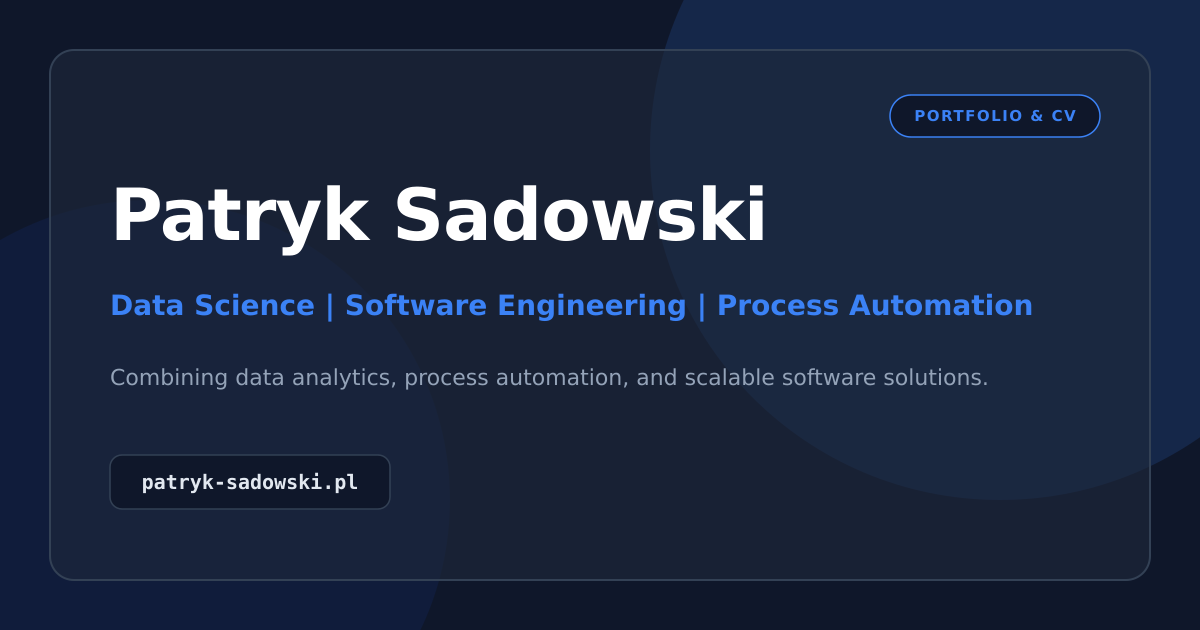
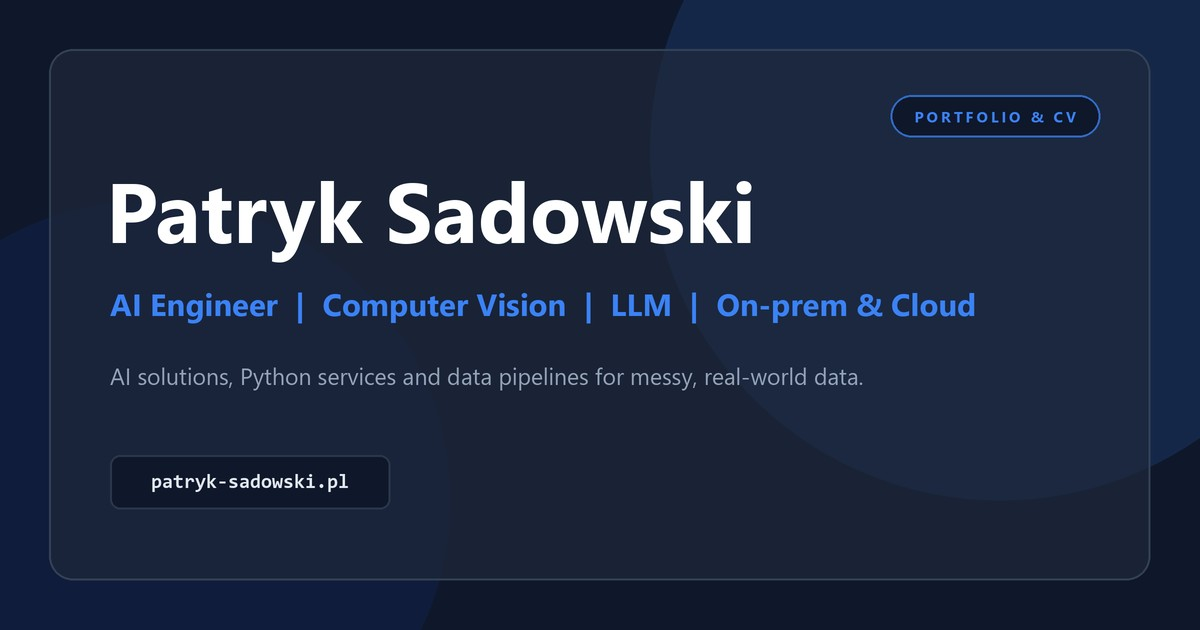
feat: new og-image and hero description

diff --git a/pl/index.html b/pl/index.html
@@ -106,7 +106,7 @@
 <p class="status"><span class="dot" aria-hidden="true"></span>Otwarty na role AI / Backend / R&amp;D · zdalnie lub hybrydowo</p>
 <h1 id="hero-title">Patryk Sadowski</h1>
 <p class="hero__role">AI Engineer</p>
-<p class="hero__lead">Projektuję usługi w&nbsp;Pythonie i&nbsp;FastAPI, potoki danych oraz warstwy storage dla dużych, nieidealnych, prawdziwych danych — od przepływów supply chain z&nbsp;SAP w&nbsp;Signify po wolumetryczne skany CT tworzone na potrzeby Narodowego Centrum Badań Jądrowych.</p>
+<p class="hero__lead">Projektuję rozwiązania AI oraz stojące za nimi usługi w&nbsp;Pythonie i&nbsp;FastAPI, potoki danych i&nbsp;warstwy storage — dla dużych, nieidealnych, prawdziwych danych, od przepływów supply chain z&nbsp;SAP w&nbsp;Signify po wolumetryczne skany CT tworzone na potrzeby Narodowego Centrum Badań Jądrowych.</p>
 <div class="hero__actions">
 <a class="btn btn--primary" href="#ct-viewer">Mój projekt flagowy<svg class="icon" aria-hidden="true"><use href="#i-arrow"/></svg></a>
 <a class="btn btn--ghost" href="../Patryk_Sadowski_CV.pdf" target="_blank" rel="noopener"><svg class="icon" aria-hidden="true"><use href="#i-download"/></svg>Pobierz CV<span class="btn__meta">PDF</span></a>

diff --git a/index.html b/index.html
@@ -106,7 +106,7 @@
 <p class="status"><span class="dot" aria-hidden="true"></span>Open to AI / Backend / R&amp;D roles · remote or hybrid</p>
 <h1 id="hero-title">Patryk Sadowski</h1>
 <p class="hero__role">AI Engineer</p>
-<p class="hero__lead">I design Python and FastAPI services, data pipelines and storage layers for large, messy, real-world data — from SAP supply-chain flows at Signify to volumetric CT scans built for the National Centre for Nuclear Research.</p>
+<p class="hero__lead">I design AI solutions and the Python/FastAPI services, data pipelines and storage behind them — for large, messy, real-world data, from SAP supply-chain flows at Signify to volumetric CT scans built for the National Centre for Nuclear Research.</p>
 <div class="hero__actions">
 <a class="btn btn--primary" href="#ct-viewer">My flagship project<svg class="icon" aria-hidden="true"><use href="#i-arrow"/></svg></a>
 <a class="btn btn--ghost" href="./Patryk_Sadowski_CV.pdf" target="_blank" rel="noopener"><svg class="icon" aria-hidden="true"><use href="#i-download"/></svg>Download CV<span class="btn__meta">PDF</span></a>
